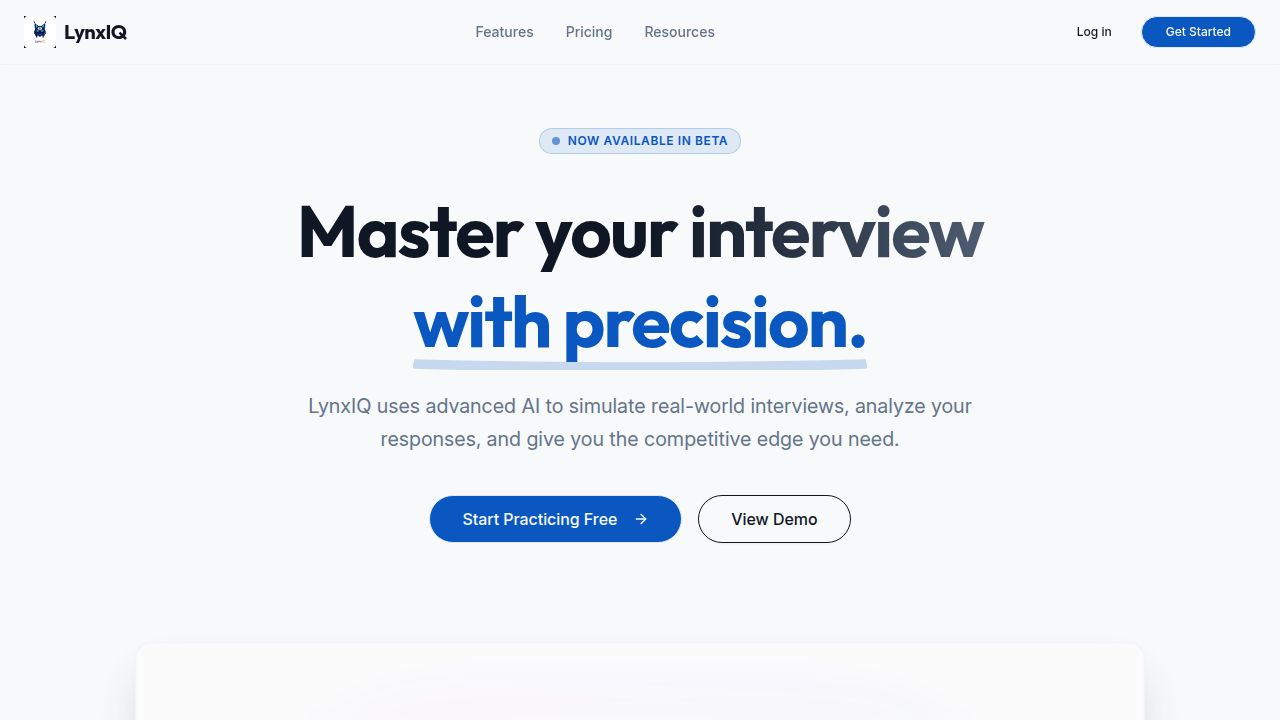
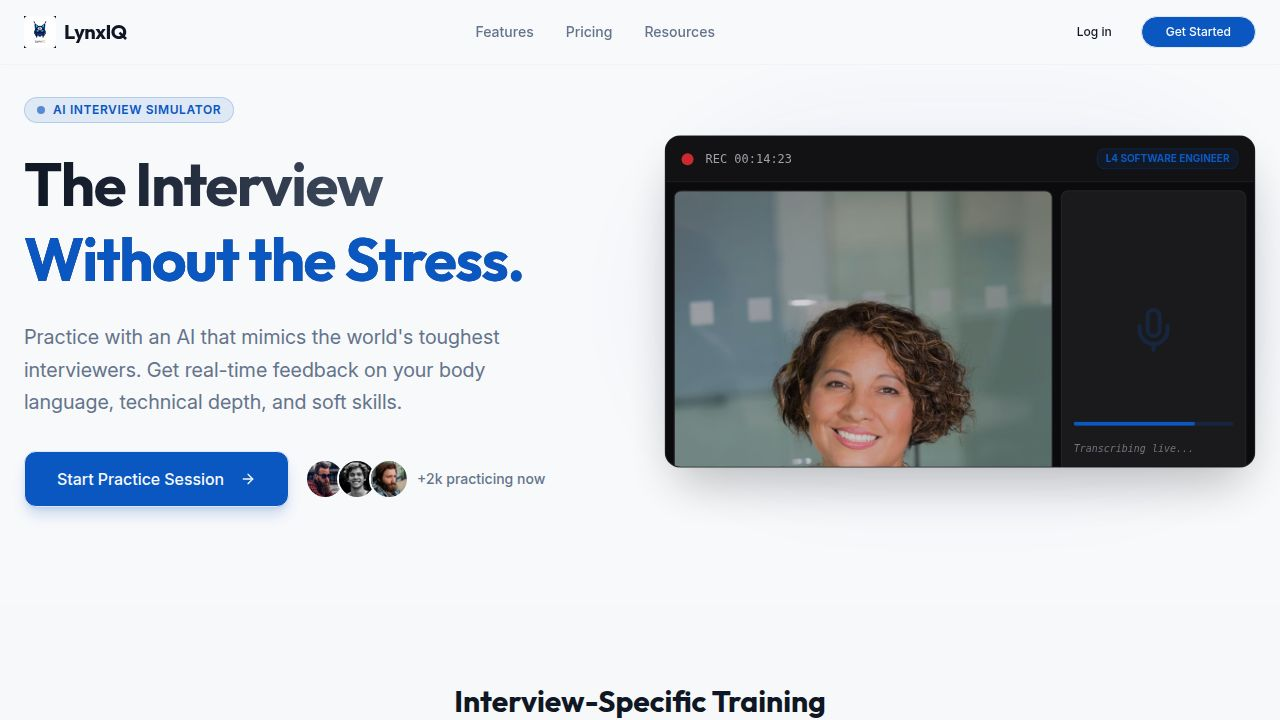
Update landing page to simulate an AI interview experience
Introduce a mock AI interview simulator into the hero section of the landing page, featuring a video feed, transcription waveform, and real-time feedback.

Replit-Commit-Author: Agent
Replit-Commit-Session-Id: 0d12c218-e1bf-47d0-9802-569d07fe91f5
Replit-Commit-Checkpoint-Type: full_checkpoint
Replit-Commit-Event-Id: 87989e6e-37bb-4d09-ae7a-dae07dcdd69d
Replit-Commit-Screenshot-Url: https://storage.googleapis.com/screenshot-production-us-central1/3a9f4a51-6062-41b7-9d2b-c563dcee0610/0d12c218-e1bf-47d0-9802-569d07fe91f5/ZyHo08o
Replit-Helium-Checkpoint-Created: true

diff --git a/client/src/pages/home.tsx b/client/src/pages/home.tsx
@@ -1,7 +1,7 @@
 import { Link } from "wouter";
 import logo from "@assets/generated_images/minimalist_geometric_logo_for_lynxiq_interview_prep_app.png";
 import { Button } from "@/components/ui/button";
-import { ArrowRight, CheckCircle2, Zap, Target } from "lucide-react";
+import { ArrowRight, CheckCircle2, Zap, Target, Video, Mic, MessageSquare, Terminal } from "lucide-react";
 import { motion } from "framer-motion";
 
 export default function Home() {
@@ -26,135 +26,184 @@ export default function Home() {
         </div>
       </nav>
 
-      <main className="pt-32 pb-20">
-        {/* Hero Section */}
+      <main className="pt-24 pb-20">
+        {/* Mock Interview Hero UI */}
         <section className="container mx-auto px-6 mb-24">
-          <div className="max-w-4xl mx-auto text-center">
+          <div className="grid lg:grid-cols-2 gap-12 items-center max-w-7xl mx-auto">
             <motion.div
-              initial={{ opacity: 0, y: 20 }}
-              animate={{ opacity: 1, y: 0 }}
-              transition={{ duration: 0.5 }}
-              className="mb-8 flex justify-center"
+              initial={{ opacity: 0, x: -20 }}
+              animate={{ opacity: 1, x: 0 }}
+              transition={{ duration: 0.6 }}
             >
-              <div className="inline-flex items-center gap-2 px-3 py-1 rounded-full bg-primary/10 text-primary text-xs font-semibold uppercase tracking-wider border border-primary/20">
+              <div className="inline-flex items-center gap-2 px-3 py-1 rounded-full bg-primary/10 text-primary text-xs font-semibold uppercase tracking-wider border border-primary/20 mb-6">
                 <span className="w-2 h-2 rounded-full bg-primary animate-pulse"></span>
-                Now available in beta
+                AI Interview Simulator
+              </div>
+              <h1 className="text-5xl md:text-6xl font-display font-bold leading-tight tracking-tight mb-6 bg-gradient-to-r from-foreground to-muted-foreground bg-clip-text text-transparent">
+                The Interview <br />
+                <span className="text-primary">Without the Stress.</span>
+              </h1>
+              <p className="text-xl text-muted-foreground mb-8 max-w-lg leading-relaxed">
+                Practice with an AI that mimics the world's toughest interviewers. Get real-time feedback on your body language, technical depth, and soft skills.
+              </p>
+              <div className="flex flex-wrap gap-4">
+                <Button size="lg" className="rounded-xl px-8 text-base h-14 shadow-lg shadow-primary/20">
+                  Start Practice Session
+                  <ArrowRight className="ml-2 w-4 h-4" />
+                </Button>
+                <div className="flex -space-x-2 items-center">
+                  {[1, 2, 3].map((i) => (
+                    <div key={i} className="w-10 h-10 rounded-full border-2 border-background bg-muted flex items-center justify-center text-[10px] font-bold overflow-hidden">
+                      <img src={`https://i.pravatar.cc/100?img=${i + 10}`} alt="User" />
+                    </div>
+                  ))}
+                  <span className="ml-4 text-sm text-muted-foreground font-medium">+2k practicing now</span>
+                </div>
               </div>
             </motion.div>
 
-            <motion.h1
-              initial={{ opacity: 0, y: 20 }}
-              animate={{ opacity: 1, y: 0 }}
-              transition={{ duration: 0.5, delay: 0.1 }}
-              className="text-5xl md:text-7xl font-display font-bold leading-tight tracking-tight mb-6 bg-gradient-to-r from-foreground via-foreground to-muted-foreground bg-clip-text text-transparent"
-            >
-              Master your interview <br />
-              <span className="text-primary relative inline-block">
-                with precision.
-                <svg className="absolute w-full h-3 -bottom-1 left-0 text-primary/20" viewBox="0 0 100 10" preserveAspectRatio="none">
-                  <path d="M0 5 Q 50 10 100 5" stroke="currentColor" strokeWidth="8" fill="none" />
-                </svg>
-              </span>
-            </motion.h1>
-
-            <motion.p
-              initial={{ opacity: 0, y: 20 }}
-              animate={{ opacity: 1, y: 0 }}
-              transition={{ duration: 0.5, delay: 0.2 }}
-              className="text-xl text-muted-foreground mb-10 max-w-2xl mx-auto leading-relaxed"
-            >
-              LynxIQ uses advanced AI to simulate real-world interviews, analyze your responses, and give you the competitive edge you need.
-            </motion.p>
-
+            {/* Simulated Interview UI Component */}
             <motion.div
-              initial={{ opacity: 0, y: 20 }}
-              animate={{ opacity: 1, y: 0 }}
-              transition={{ duration: 0.5, delay: 0.3 }}
-              className="flex flex-col sm:flex-row items-center justify-center gap-4"
+              initial={{ opacity: 0, scale: 0.9 }}
+              animate={{ opacity: 1, scale: 1 }}
+              transition={{ duration: 0.8 }}
+              className="relative"
             >
-              <Button size="lg" className="rounded-full px-8 text-base h-12 w-full sm:w-auto">
-                Start Practicing Free
-                <ArrowRight className="ml-2 w-4 h-4" />
-              </Button>
-              <Button variant="outline" size="lg" className="rounded-full px-8 text-base h-12 w-full sm:w-auto">
-                View Demo
-              </Button>
+              <div className="absolute -inset-4 bg-primary/10 blur-3xl rounded-full -z-10 opacity-50 animate-pulse"></div>
+              <div className="bg-zinc-950 rounded-2xl border border-white/10 shadow-2xl overflow-hidden aspect-video flex flex-col">
+                {/* Header */}
+                <div className="px-4 py-3 border-b border-white/5 flex items-center justify-between bg-zinc-900/50">
+                  <div className="flex items-center gap-3">
+                    <div className="w-3 h-3 rounded-full bg-red-500/80"></div>
+                    <span className="text-xs font-mono text-zinc-400">REC 00:14:23</span>
+                  </div>
+                  <div className="flex items-center gap-2">
+                    <span className="text-[10px] font-bold text-primary bg-primary/10 px-2 py-0.5 rounded border border-primary/20">L4 SOFTWARE ENGINEER</span>
+                  </div>
+                </div>
+                
+                {/* Content Area */}
+                <div className="flex-1 grid grid-cols-3 gap-2 p-2">
+                  <div className="col-span-2 relative rounded-lg overflow-hidden bg-zinc-900 border border-white/5">
+                    <img 
+                      src="https://images.unsplash.com/photo-1573497019940-1c28c88b4f3e?auto=format&fit=crop&q=80&w=800" 
+                      className="w-full h-full object-cover opacity-80" 
+                      alt="Interviewer"
+                    />
+                    <div className="absolute bottom-3 left-3 px-2 py-1 bg-black/60 backdrop-blur-md rounded text-[10px] text-white font-medium border border-white/10">
+                      Interviewer: Sarah (Senior Eng)
+                    </div>
+                  </div>
+                  <div className="flex flex-col gap-2">
+                    <div className="flex-1 rounded-lg bg-zinc-900 border border-white/5 p-3 flex flex-col justify-end relative overflow-hidden">
+                       <div className="absolute inset-0 flex items-center justify-center opacity-20">
+                          <Mic className="w-12 h-12 text-primary" />
+                       </div>
+                       <div className="relative z-10 space-y-2">
+                          <div className="h-1 w-full bg-primary/20 rounded-full overflow-hidden">
+                            <motion.div 
+                              className="h-full bg-primary" 
+                              animate={{ width: ["20%", "80%", "40%", "90%"] }}
+                              transition={{ repeat: Infinity, duration: 2 }}
+                            />
+                          </div>
+                          <span className="text-[10px] text-zinc-500 font-mono italic">Transcribing live...</span>
+                       </div>
+                    </div>
+                    <div className="flex-1 rounded-lg bg-zinc-900 border border-white/5 p-3">
+                       <h4 className="text-[10px] font-bold text-zinc-500 uppercase tracking-wider mb-2">Live Feedback</h4>
+                       <div className="space-y-2">
+                          <div className="flex items-center gap-2">
+                            <CheckCircle2 className="w-3 h-3 text-emerald-500" />
+                            <span className="text-[10px] text-zinc-300">Great eye contact</span>
+                          </div>
+                          <div className="flex items-center gap-2">
+                            <Zap className="w-3 h-3 text-amber-500" />
+                            <span className="text-[10px] text-zinc-300">Watch your pace</span>
+                          </div>
+                       </div>
+                    </div>
+                  </div>
+                </div>
+
+                {/* Controls */}
+                <div className="p-4 flex items-center justify-center gap-6 bg-zinc-900/80 border-t border-white/5">
+                  <button className="w-10 h-10 rounded-full bg-white/5 flex items-center justify-center hover:bg-white/10 transition-colors">
+                    <Mic className="w-4 h-4 text-white" />
+                  </button>
+                  <button className="w-12 h-12 rounded-full bg-red-500 flex items-center justify-center hover:bg-red-600 transition-colors shadow-lg shadow-red-500/20">
+                    <Video className="w-5 h-5 text-white" />
+                  </button>
+                  <button className="w-10 h-10 rounded-full bg-white/5 flex items-center justify-center hover:bg-white/10 transition-colors">
+                    <MessageSquare className="w-4 h-4 text-white" />
+                  </button>
+                </div>
+              </div>
             </motion.div>
           </div>
         </section>
 
-        {/* Logo Showcase */}
-        <section className="container mx-auto px-6 mb-32">
-          <motion.div
-            initial={{ opacity: 0, scale: 0.95 }}
-            animate={{ opacity: 1, scale: 1 }}
-            transition={{ duration: 0.8, delay: 0.4 }}
-            className="relative max-w-5xl mx-auto"
-          >
-            <div className="absolute inset-0 bg-gradient-to-tr from-primary/30 via-purple-500/30 to-blue-500/30 blur-3xl -z-10 rounded-full opacity-20 transform scale-75"></div>
-            
-            <div className="bg-card/50 backdrop-blur-sm border border-border/50 rounded-2xl p-12 md:p-24 shadow-2xl flex flex-col items-center justify-center text-center">
-              <div className="mb-8 relative group">
-                <div className="absolute inset-0 bg-primary/20 blur-2xl rounded-full opacity-0 group-hover:opacity-100 transition-opacity duration-700"></div>
-                <img 
-                  src={logo} 
-                  alt="LynxIQ Brand Mark" 
-                  className="w-32 h-32 md:w-48 md:h-48 object-contain relative z-10 drop-shadow-xl transition-transform duration-500 group-hover:scale-105" 
-                />
-              </div>
-              <div className="space-y-2">
-                <h2 className="text-3xl font-display font-bold">LynxIQ</h2>
-                <p className="text-muted-foreground tracking-widest text-sm uppercase">Visionary Interview Intelligence</p>
-              </div>
-            </div>
-          </motion.div>
-        </section>
-
-        {/* Features Grid */}
-        <section className="container mx-auto px-6 py-20">
-          <div className="grid md:grid-cols-3 gap-8 max-w-6xl mx-auto">
-            <FeatureCard 
-              icon={<Target className="w-6 h-6 text-primary" />}
-              title="Precise Feedback"
-              description="Get instant, actionable feedback on your tone, pace, and content relevance."
-            />
-            <FeatureCard 
-              icon={<Zap className="w-6 h-6 text-primary" />}
-              title="Real-time Analysis"
-              description="Our AI engine analyzes your responses in real-time, just like a human recruiter."
-            />
-            <FeatureCard 
-              icon={<CheckCircle2 className="w-6 h-6 text-primary" />}
-              title="Industry Standards"
-              description="Practice with questions curated from top tech companies and Fortune 500s."
-            />
+        {/* Feature Blocks */}
+        <section className="container mx-auto px-6 py-20 bg-muted/30">
+          <div className="max-w-6xl mx-auto text-center mb-16">
+            <h2 className="text-3xl font-display font-bold mb-4">Interview-Specific Training</h2>
+            <p className="text-muted-foreground">Master every aspect of the modern hiring process.</p>
+          </div>
+          <div className="grid md:grid-cols-4 gap-6 max-w-7xl mx-auto">
+             <InterviewModeCard 
+               icon={<Terminal className="w-5 h-5" />}
+               title="System Design"
+               mode="Architectural"
+               level="Senior"
+             />
+             <InterviewModeCard 
+               icon={<MessageSquare className="w-5 h-5" />}
+               title="Behavioral"
+               mode="Soft Skills"
+               level="General"
+             />
+             <InterviewModeCard 
+               icon={<Video className="w-5 h-5" />}
+               title="Mock Video"
+               mode="Body Language"
+               level="Executive"
+             />
+             <InterviewModeCard 
+               icon={<Target className="w-5 h-5" />}
+               title="Salary Negotiation"
+               mode="Strategic"
+               level="Advanced"
+             />
           </div>
         </section>
       </main>
       
-      <footer className="border-t border-border/40 py-12 bg-muted/20">
+      <footer className="border-t border-border/40 py-12">
         <div className="container mx-auto px-6 text-center text-muted-foreground">
           <div className="flex items-center justify-center gap-2 mb-4 opacity-50">
             <img src={logo} alt="LynxIQ Logo" className="w-5 h-5 grayscale" />
             <span className="font-bold">LynxIQ</span>
           </div>
-          <p>&copy; 2024 LynxIQ. All rights reserved.</p>
+          <p>&copy; 2024 LynxIQ. Built for the next generation of talent.</p>
         </div>
       </footer>
     </div>
   );
 }
 
-function FeatureCard({ icon, title, description }: { icon: React.ReactNode, title: string, description: string }) {
+function InterviewModeCard({ icon, title, mode, level }: { icon: React.ReactNode, title: string, mode: string, level: string }) {
   return (
-    <div className="p-6 rounded-xl border border-border/50 bg-card hover:border-primary/50 transition-colors duration-300">
-      <div className="w-12 h-12 rounded-lg bg-primary/10 flex items-center justify-center mb-4">
+    <div className="group relative bg-card border border-border/50 rounded-2xl p-6 hover:border-primary/50 transition-all duration-300 hover:shadow-xl hover:-translate-y-1">
+      <div className="absolute top-4 right-4 text-[10px] font-bold text-muted-foreground/40 tracking-tighter uppercase">{level}</div>
+      <div className="w-10 h-10 rounded-xl bg-primary/10 flex items-center justify-center text-primary mb-4 group-hover:bg-primary group-hover:text-white transition-colors">
         {icon}
       </div>
-      <h3 className="text-lg font-bold mb-2 font-display">{title}</h3>
-      <p className="text-muted-foreground leading-relaxed">
-        {description}
-      </p>
+      <h3 className="text-lg font-bold mb-1 font-display">{title}</h3>
+      <p className="text-xs text-primary font-medium uppercase tracking-widest">{mode}</p>
+      <div className="mt-6 pt-4 border-t border-border/40 flex items-center justify-between opacity-0 group-hover:opacity-100 transition-opacity">
+        <span className="text-[10px] font-bold text-muted-foreground">25 MODULAR EXERCISES</span>
+        <ArrowRight className="w-3 h-3 text-primary" />
+      </div>
     </div>
   );
 }
